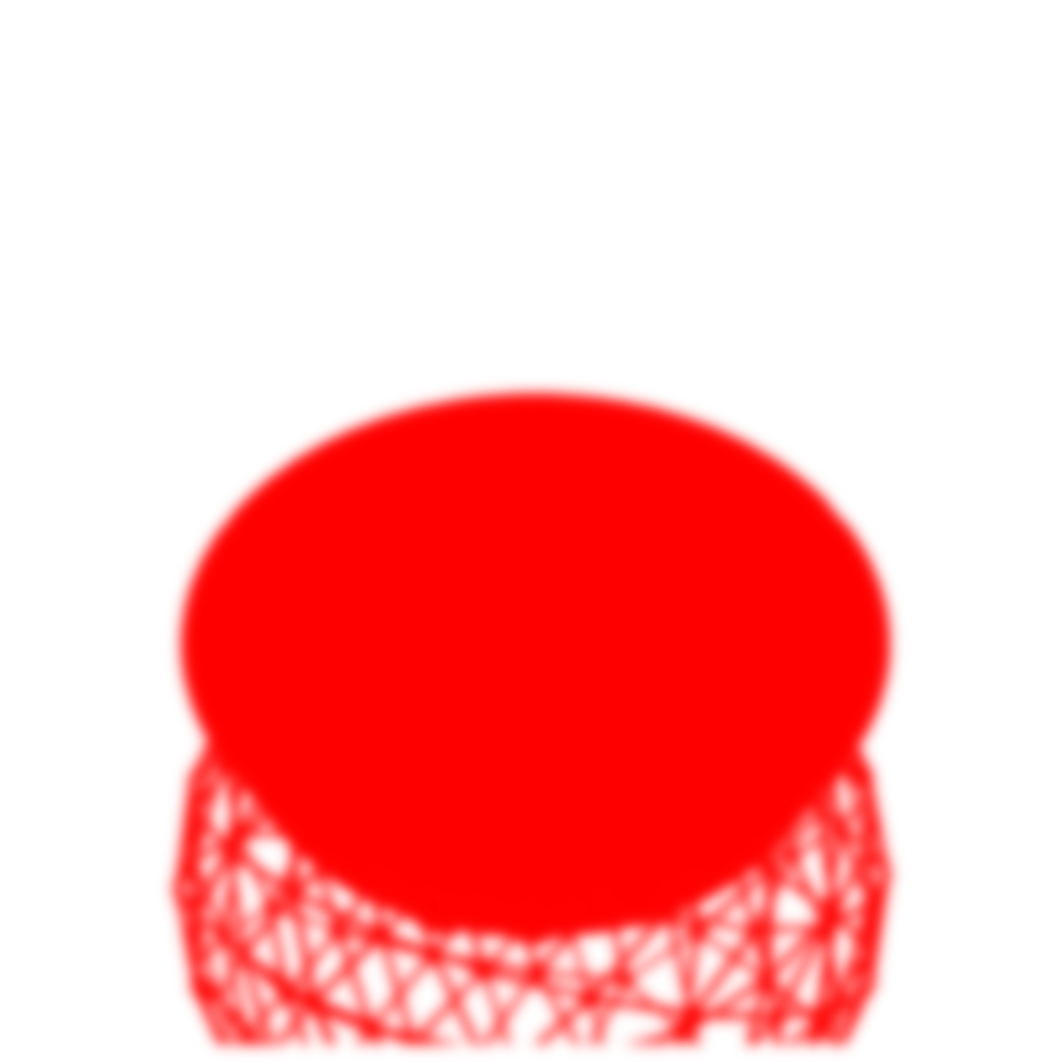
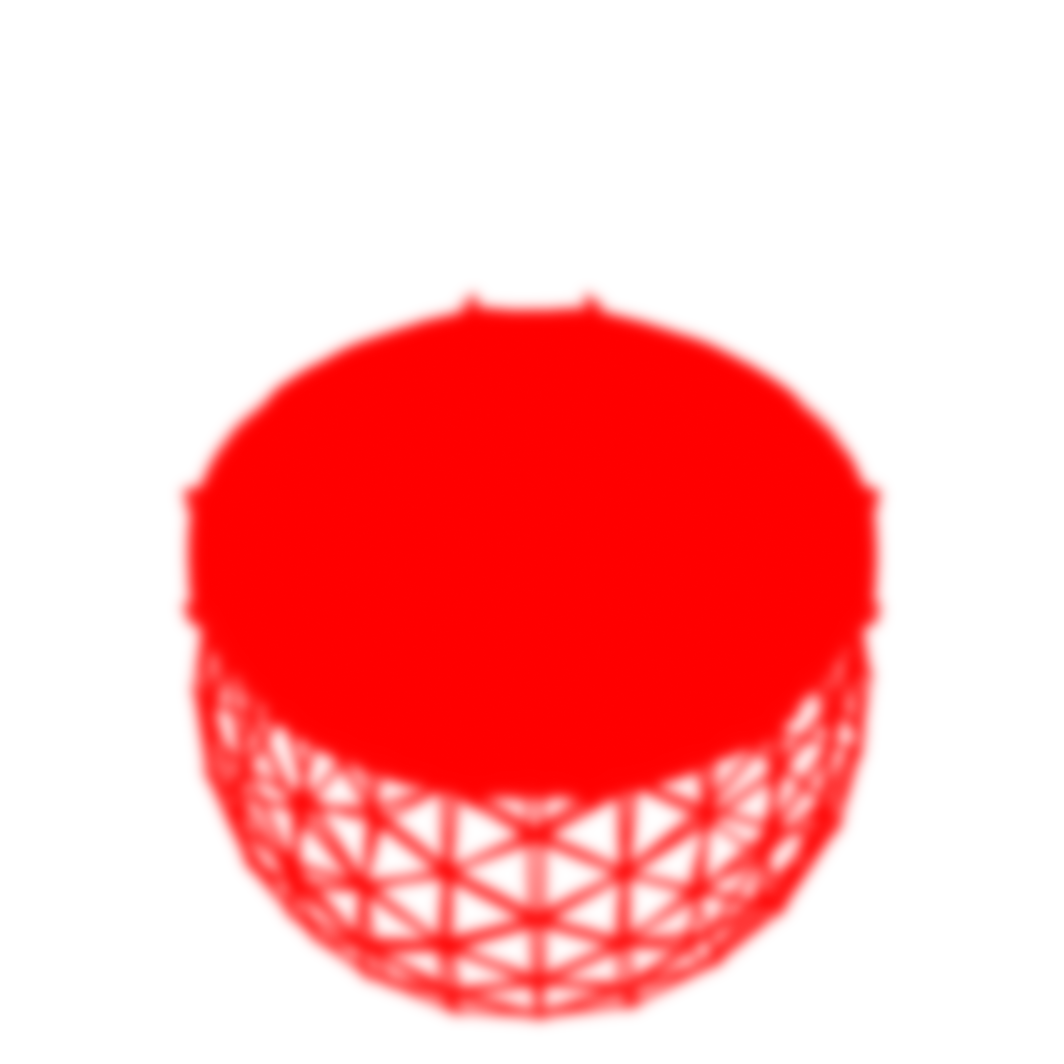
zen-garden graphics iteration

Changed region(s): [[0.1551, 0.2481, 0.8684, 0.9925]]

diff --git a/README.MD b/README.MD
@@ -25,3 +25,6 @@ Cosmetics with pollution filtering capabilities: - (optional)
 
 Tweaks:
 - Fuel pollution changed for wood (50%) and coal (150%) - (optional)
+
+Work in progress:
+- Zen Garden graphics, all feedback is appriciated, what looked good, what felt wrong?
